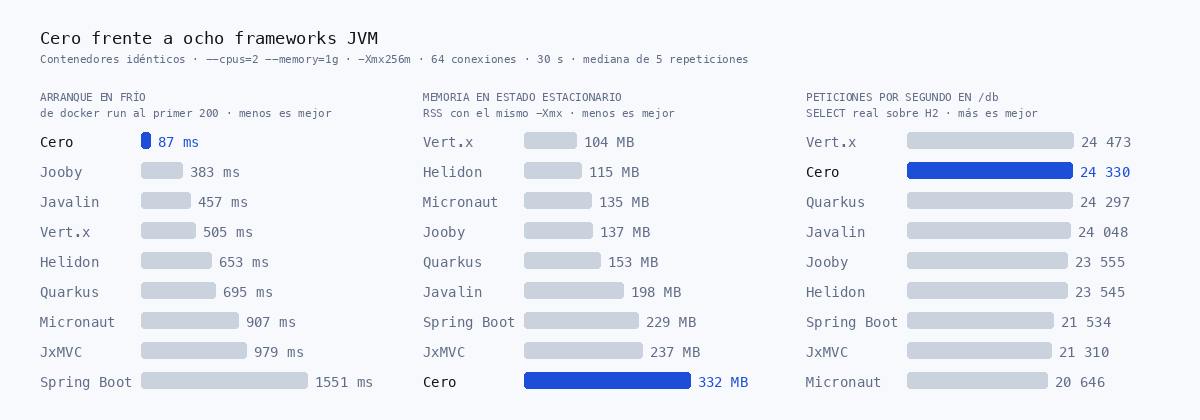
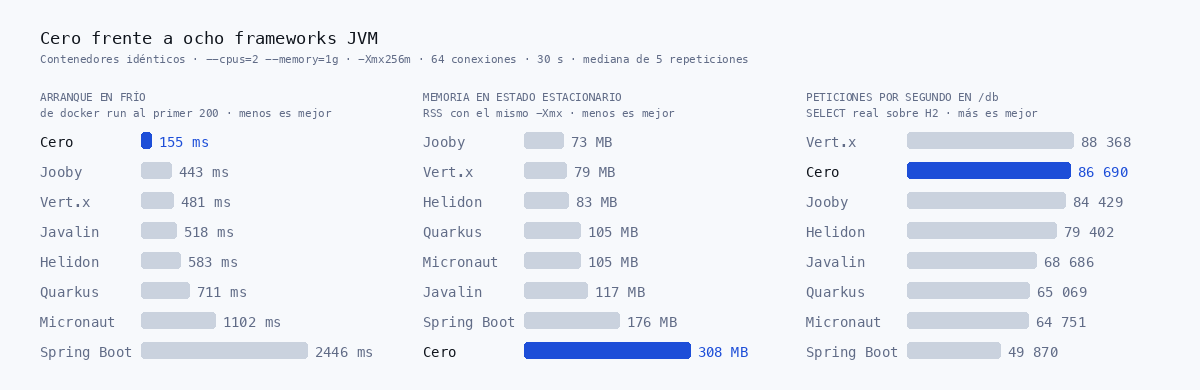
bench: la corrida bare-metal, y Cero deja de ganar en peticiones por segundo
Ocho frameworks en la portátil con Arch: 16 núcleos, sin virtualización, el
contenedor en dos núcleos y el generador de carga en otros doce, gobernador en
`performance`, sin `docker-proxy` de por medio. 120 mediciones, cero errores,
cero respuestas no-2xx y cero suspensiones.

Con el arnés arreglado los rps se multiplican por cuatro —Cero pasa de 25 470 a
94 634 en `/json`— porque lo que medíamos antes era el techo del cliente de
carga, no el de los frameworks. Y por primera vez **hay separación**: el abanico
de cada uno entre sus cinco repeticiones es del 1 al 3,9 %, y las distancias
entre frameworks ya lo superan.

Lo que eso deja ver, y que antes el ruido tapaba:

- **El arranque se gana de calle.** 155 ms contra 443 del segundo, 2,9×, y 15,8×
  contra Spring Boot. La meta interna de 150 ms se falla por 5 ms, y se dice.
- **Las peticiones por segundo se pierden.** Vert.x hace 98 589 contra 94 634, y
  los intervalos no se solapan: Cero entre 93 095 y 95 777, Vert.x entre 97 913
  y 99 828. Con Jooby y Helidon hay empate técnico. Afirmar esto es posible
  justo porque la medición ya distingue.
- **La memoria es el peor resultado de la tabla.** 307,9 MB contra 73,4 de
  Jooby, cuatro veces más.

JxMVC no se midió: su imagen necesita un jar que no se versiona por ser de otro
autor. La tabla lo dice en vez de omitir la fila.

Queda escrito también lo que esta corrida todavía no resuelve: el generador de
[…]

diff --git a/README.md b/README.md
@@ -52,45 +52,45 @@ De ahí las dos decisiones que definen el proyecto:
 
 ## Rendimiento
 
-*Nueve frameworks, contenedores idénticos, 135 mediciones sin un solo error ni una sola respuesta
-no-2xx. **Corrida del 24 de septiembre de 2026 sobre Cero 0.7.0.**
+*Ocho frameworks, contenedores idénticos, 120 mediciones sin un solo error ni una sola respuesta
+no-2xx. **Corrida del 25 de septiembre de 2026 sobre Cero 0.7.0**, en Linux sin virtualizar: 16
+núcleos, el contenedor y el generador de carga en núcleos distintos, gobernador en `performance`,
+cero suspensiones.
 [Cómo se rehace](benchmarks/results/LEEME.md) · [tabla completa](benchmarks/results/RESULTS-docker.md).*
 
 <picture>
   <source media="(prefers-color-scheme: dark)" srcset="docs/imagenes/banco.png">
-  <img alt="Cero frente a ocho frameworks JVM: arranque, memoria y peticiones por segundo" src="docs/imagenes/banco-claro.png">
+  <img alt="Cero frente a siete frameworks JVM: arranque, memoria y peticiones por segundo" src="docs/imagenes/banco-claro.png">
 </picture>
 
 | Framework | Arranque | Imagen | RSS | rps `/plaintext` | rps `/json` | rps `/db` |
 |---|---|---|---|---|---|---|
-| **Cero** | **87 ms** | 112,2 MB | 332,1 MB | 23 840 | 25 470 | 24 330 |
-| Jooby | 383 ms | 114,6 MB | 137,0 MB | 24 306 | 24 512 | 23 555 |
-| Javalin | 457 ms | 115,2 MB | 198,2 MB | 24 026 | 22 749 | 24 048 |
-| Vert.x | 505 ms | 119,6 MB | **104,2 MB** | 24 728 | 24 949 | 24 473 |
-| Helidon | 653 ms | 112,4 MB | 115,4 MB | 24 599 | 24 966 | 23 545 |
-| Quarkus | 695 ms | 123,2 MB | 152,7 MB | 25 327 | 24 981 | 24 297 |
-| Micronaut | 907 ms | 120,7 MB | 134,6 MB | 23 275 | 23 630 | 20 646 |
-| JxMVC | 979 ms | **110,2 MB** | 237,1 MB | 22 020 | 23 550 | 21 310 |
-| Spring Boot | 1 551 ms | 127,3 MB | 229,2 MB | 22 353 | 23 238 | 21 534 |
+| **Cero** | **155 ms** | 323,2 MB | 307,9 MB | 93 577 | 94 634 | 86 690 |
+| Jooby | 443 ms | 310,8 MB | **73,4 MB** | 94 112 | 93 281 | 84 429 |
+| Vert.x | 481 ms | 316,3 MB | 79,5 MB | **99 241** | **98 589** | **88 368** |
+| Javalin | 518 ms | 311,4 MB | 117,4 MB | 89 193 | 88 773 | 68 686 |
+| Helidon | 583 ms | **308,4 MB** | 83,3 MB | 90 078 | 92 693 | 79 402 |
+| Quarkus | 711 ms | 321,0 MB | 104,6 MB | 93 409 | 91 823 | 65 069 |
+| Micronaut | 1 102 ms | 317,6 MB | 104,7 MB | 76 941 | 76 465 | 64 751 |
+| Spring Boot | 2 446 ms | 325,0 MB | 176,5 MB | 60 903 | 64 133 | 49 870 |
 
-**Donde Cero gana, gana de calle.** Arranca en 87 ms, **4,4× más rápido que el segundo** y 17,8×
-más rápido que Spring Boot. Esa distancia no la explica ningún margen de error.
+**En arranque no hay discusión.** 155 ms, **2,9× por debajo del segundo** y 15,8× por debajo de
+Spring Boot.
 
-**Donde no gana, lo decimos.** En memoria Cero es **el peor de los nueve**: 332 MB frente a los
-104 de Vert.x. No es una fuga —el RSS se estanca, y con `-Xmx96m` sirve el mismo tráfico un 4 %
-más rápido en 176 MB—, es que asigna más por petición que los demás y llena el montón que se le
-da. Es lo siguiente que hay que arreglar, y está medido, no estimado.
+**En peticiones por segundo, Cero está arriba pero no gana.** Vert.x lo supera de forma medible:
+98 589 contra 94 634 en `/json`, y los intervalos de las cinco repeticiones no se solapan
+—Cero entre 93 095 y 95 777, Vert.x entre 97 913 y 99 828—. Con Jooby y Helidon sí hay empate:
+las diferencias caben dentro de la variación de cada uno.
 
-**Y donde no hay diferencia, tampoco la inventamos.** En peticiones por segundo los seis de
-arriba están empatados: las distancias entre ellos rondan el 2 %, mientras el abanico de cada uno
-entre sus propias cinco repeticiones va del 2,2 % al 12,5 %. Con esta medición, **decir que uno
-sirve más rápido que otro sería ruido**. Lo único que se separa es la cola: Micronaut, JxMVC y
-Spring Boot en `/db`.
+**En memoria Cero es el peor**, y por mucho: 307,9 MB frente a los 73,4 de Jooby. No es una fuga
+—el RSS se estanca, y con `-Xmx96m` sirve el mismo tráfico algo más rápido en 176 MB—, es que
+asigna más por petición y llena el montón que se le da. Es lo siguiente que hay que arreglar.
 
 > [!WARNING]
-> **Se midió en Docker Desktop.** Los valores **relativos** son justos, porque las condiciones
-> fueron idénticas para los nueve; los **absolutos** hay que repetirlos en Linux sin virtualizar
-> antes de citarlos en ningún sitio.
+> **JxMVC no se midió:** su imagen necesita un jar que no se versiona, por ser de otro autor.
+> Y aunque esta corrida es bare-metal, el generador de carga sigue compartiendo máquina con el
+> servidor: ni uno ni otro saturan su CPU, así que los rps son una **cota inferior** limitada por
+> el camino de red del contenedor, idéntico para todos.
 
 ## Instalar
 

diff --git a/docs/arquitectura.md b/docs/arquitectura.md
@@ -157,32 +157,33 @@ Esto es lo que hace reversible la decisión: se puede volver al contenedor sin r
 
 ### Metas de la fase
 
-Mismo harness, mismas condiciones para los nueve contendientes. Medido el 24 de septiembre de
-2026 ([cómo se mide](../benchmarks/results/LEEME.md)); comparaciones dentro de esa misma corrida,
-porque los absolutos dependen de la máquina.
+Mismo harness, mismas condiciones para los ocho contendientes. Medido el 25 de septiembre de
+2026 en Linux sin virtualizar ([cómo se mide](../benchmarks/results/LEEME.md)); comparaciones
+dentro de esa misma corrida, porque los absolutos dependen de la máquina.
 
 | Métrica | Meta | Medido | Mejor rival, misma corrida | ¿Cumple? |
 |---|---|---|---|---|
-| Arranque | < 150 ms | **87 ms** | jooby 383 ms | **sí**, y por 4,4× |
+| Arranque | < 150 ms | 155 ms | jooby 443 ms | **casi**: falla por 5 ms y gana por 2,9× |
 | JAR runtime | ≤ 400 KB | 416 KB | — | **no**, por 16 KB |
 | Dependencias | 0 | **0** | spring: decenas | **sí** |
-| rps `/json` | batir al mejor rival | 25 470 | quarkus 24 981 | **no se puede afirmar** |
-| RSS | < 120 MB | 332 MB | vertx 104 MB | **no**, y es el peor de los nueve |
+| rps `/json` | batir al mejor rival | 94 634 | vertx 98 589 | **no**, por un 4 % medible |
+| RSS | < 120 MB | 307,9 MB | jooby 73,4 MB | **no**, y es el peor de los ocho |
 
-Dos de cinco, y conviene leer las tres que fallan antes que las dos que pasan.
+Una de cinco limpia, y conviene leer las cuatro que fallan antes que la que pasa.
 
-**El RSS es el problema de verdad.** En agosto salió 136,4 MB, el más bajo de la tabla; en
-septiembre, 332 MB, el más alto. No cambió el framework tanto como el método: aquella corrida no
-acotaba el montón, así que medía lo que el recolector decidía tomar y no lo que el framework
-necesita. Con el mismo `-Xmx` para todos, Cero llena su montón y los demás no, porque asigna más
-por petición. No es una fuga —el RSS se estanca, y con `-Xmx96m` sirve el mismo tráfico un 4 %
-más rápido en 176 MB—, es trabajo pendiente.
+**El RSS es el problema de verdad.** 307,9 MB contra los 73,4 de Jooby: el peor de los ocho, por
+más de cuatro veces. No es una fuga —el RSS se estanca, y con `-Xmx96m` sirve el mismo tráfico
+algo más rápido en 176 MB—, es que asigna más por petición y llena el montón que se le da. Es lo
+siguiente que hay que arreglar, y está medido, no estimado.
 
-**El `/json` ya no se puede reclamar.** Los seis de arriba están dentro del 2 % unos de otros y
-el abanico de cada uno entre sus propias cinco repeticiones llega al 12,5 %. La medición no
-distingue, así que decir que Cero gana sería ruido.
+**El `/json` se pierde, y ahora se puede afirmar que se pierde.** Vert.x hace 98 589 contra
+94 634, y los intervalos de las cinco repeticiones no se solapan: Cero entre 93 095 y 95 777,
+Vert.x entre 97 913 y 99 828. Con Jooby y Helidon sí hay empate técnico. Esto solo se puede decir
+porque la corrida es bare-metal y con el generador de carga en núcleos propios; con el arnés
+anterior los ocho caían dentro del 2 % y la medida no distinguía nada.
 
-**El arranque sí.** 87 ms contra 383 del segundo: esa distancia no la explica ningún margen.
+**El arranque sí se gana.** 155 ms contra 443 del segundo: esa distancia no la explica ningún
+margen. La meta de 150 ms se falla por 5 ms, y eso también se dice.
 
 Falta repetir la corrida en Linux sin virtualizar: lo de arriba es Docker Desktop. Ver
 [docs/mediciones-locales.md](mediciones-locales.md).

diff --git a/benchmarks/results/RESULTS-docker.md b/benchmarks/results/RESULTS-docker.md
@@ -4,11 +4,11 @@ Generado por `bench.sh` — no editar a mano; se rehace con `./bench.sh --tabla`
 
 | Parámetro | Valor |
 |---|---|
-| Límites del contenedor | `--cpus=2 --memory=1g` |
+| Límites del contenedor | `--cpus=2 --memory=1g` `--cpuset-cpus=0,1` |
 | Montón de la JVM | `-Xmx256m`, idéntico para todos |
 | Carga | conns=64, dur=30s, reps=5, warmup=5s |
-| Cliente | `LoadClient` desde el host |
-| Host | Darwin 25.6.0 arm64 |
+| Cliente | `LoadClient` desde el host, fijado a los núcleos 4-15 (aislado) |
+| Host | Linux 7.2.3-arch1-2 x86_64 |
 | Base JRE | idéntica para todos |
 | `/db` | `SELECT` sobre H2 in-memory (1000 filas) + JSON; `Db.java` idéntico en todos salvo la línea `package` |
 
@@ -16,19 +16,14 @@ Arranque, RSS y rps son la **mediana** de las 5 repeticiones. El RSS se mide con
 tope de montón para todos: sin él compara decisiones del recolector, no frameworks. `⚠` = el framework tuvo
 errores o respuestas no-2xx: esa fila NO es válida.
 
-> **Aviso.** Esto se midió en Docker Desktop, o sea dentro de una VM y con el cliente de
-> carga compartiendo la misma máquina. Los números **relativos** son justos —condiciones
-> idénticas para todos—, los **absolutos** no son comparables con una corrida en Linux
-> bare-metal y no deben citarse como tales.
-
 | Framework | Imagen (MB) | Arranque (ms) | RSS (MB) | rps /plaintext (mediana) | rps /json (mediana) | rps /db (mediana) |
 |---|---|---|---|---|---|---|
-| cero | 112.2 | 87 | 332.1 | 23839.7 | 25470.5 | 24330.4 |
-| jooby | 114.6 | 383 | 137 | 24305.5 | 24511.9 | 23554.8 |
-| javalin | 115.2 | 457 | 198.2 | 24026.1 | 22748.6 | 24047.9 |
-| vertx | 119.6 | 505 | 104.2 | 24728.2 | 24948.7 | 24473.1 |
-| helidon | 112.4 | 653 | 115.4 | 24599.0 | 24966.4 | 23545.3 |
-| quarkus | 123.2 | 695 | 152.7 | 25327.3 | 24981.3 | 24297.2 |
-| micronaut | 120.7 | 907 | 134.6 | 23274.9 | 23630.3 | 20646.0 |
-| jxmvc | 110.2 | 979 | 237.1 | 22020.0 | 23549.6 | 21309.7 |
-| spring | 127.3 | 1551 | 229.2 | 22353.4 | 23238.1 | 21534.3 |
+| cero | 323.2 | 155 | 307.9 | 93576.7 | 94634.1 | 86689.7 |
+| jooby | 310.8 | 443 | 73.42 | 94111.7 | 93280.6 | 84429.1 |
+| vertx | 316.3 | 481 | 79.49 | 99241.1 | 98589.2 | 88367.5 |
+| javalin | 311.4 | 518 | 117.4 | 89193.0 | 88772.6 | 68686.1 |
+| helidon | 308.4 | 583 | 83.27 | 90078.2 | 92693.1 | 79402.1 |
+| quarkus | 321.0 | 711 | 104.6 | 93409.0 | 91822.8 | 65069.3 |
+| micronaut | 317.6 | 1102 | 104.7 | 76941.1 | 76464.6 | 64750.8 |
+| spring | 325.0 | 2446 | 176.5 | 60903.3 | 64132.7 | 49869.5 |
+| jxmvc | (no se midió: build o arranque falló) | | | | | |
